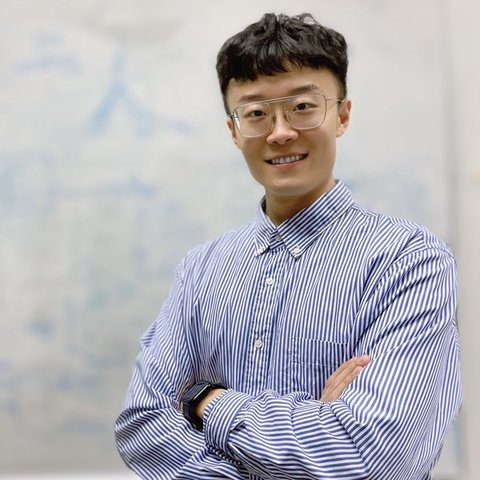
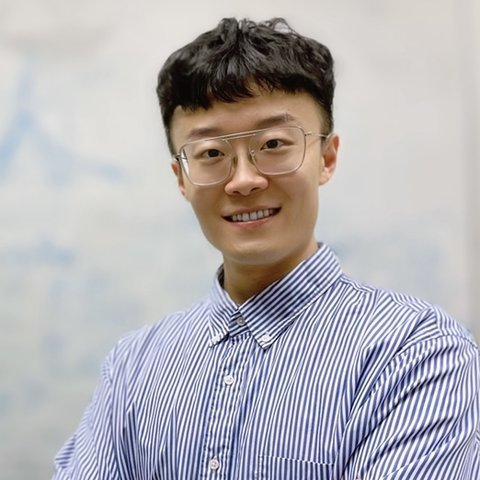
Color headshots with face-centered crops, spiral RSI diagram, hero CTAs, submit section, copy polish

diff --git a/index.html b/index.html
@@ -3,13 +3,13 @@
 <head>
 <meta charset="utf-8">
 <meta name="viewport" content="width=device-width, initial-scale=1">
-<title>ARRSI 2026 — Workshop on Autonomous Research and Recursive Self-Improvement</title>
+<title>ARRSI 2026 · Workshop on Autonomous Research and Recursive Self-Improvement</title>
 <meta name="description" content="The First Workshop on Autonomous Research and Recursive Self-Improvement (ARRSI), co-located with AACL-IJCNLP 2026 in Hengqin, China. Call for papers on autonomous research, AI for science, self-improving agents, evaluation, and safety.">
 <link rel="icon" type="image/svg+xml" href="assets/img/favicon.svg">
 <link rel="canonical" href="https://ar-rsi.github.io/">
 <meta property="og:type" content="website">
-<meta property="og:title" content="ARRSI 2026 — Workshop on Autonomous Research and Recursive Self-Improvement">
-<meta property="og:description" content="When can an agent be trusted as a research scientist? First ARRSI workshop at AACL-IJCNLP 2026, Hengqin, China — November 9 or 10, 2026.">
+<meta property="og:title" content="ARRSI 2026 · Workshop on Autonomous Research and Recursive Self-Improvement">
+<meta property="og:description" content="When can an agent be trusted as a research scientist? First ARRSI workshop at AACL-IJCNLP 2026, Hengqin, China, November 9 or 10, 2026.">
 <meta property="og:url" content="https://ar-rsi.github.io/">
 <meta property="og:image" content="https://ar-rsi.github.io/assets/img/og.png">
 <meta name="twitter:card" content="summary_large_image">
@@ -40,70 +40,58 @@
     <div>
       <p class="kicker">The First Workshop<span class="sep">·</span>AACL-IJCNLP 2026</p>
       <h1>Autonomous Research <span class="amp">&amp;</span> Recursive Self&#8209;Improvement</h1>
-      <p class="hero-venue">Co-located with <strong>AACL-IJCNLP 2026</strong> in Hengqin, China — <strong>November 9 or 10, 2026</strong> <em>(day to be fixed)</em>.</p>
+      <p class="hero-venue">Co-located with <strong>AACL-IJCNLP 2026</strong> in Hengqin, China, on <strong>November 9 or 10, 2026</strong> <em>(day to be fixed)</em>.</p>
+      <div class="cta-row">
+        <a class="btn btn-solid" href="#cfp">Call for Papers</a>
+        <a class="btn btn-line" href="#dates">Important dates</a>
+      </div>
       <div class="abstract">
         <h2>Abstract</h2>
-        <p>AI agents are crossing a consequential threshold: from assisting with isolated research steps to running closed loops of literature search, hypothesis generation, coding, experimentation, evaluation, and revision. Autonomous research and recursive self-improvement may together form a direct path toward artificial superintelligence — turning a distant thought experiment into an urgent empirical and governance problem.</p>
-        <p><strong>ARRSI asks when an agent can be trusted as a research scientist:</strong> can it generate genuinely novel hypotheses, test them against the world, learn from failure, and convert evidence from its own work into measurable improvements in subsequent research — by updating prompts, memory, tools, workflows, training procedures, or parameters — without sacrificing validity, reproducibility, safety, or human control?</p>
+        <p>AI agents are crossing a consequential threshold: from assisting with isolated research steps to running closed loops of literature search, hypothesis generation, coding, experimentation, evaluation, and revision. Autonomous research and recursive self-improvement may together form a direct path toward artificial superintelligence, turning a distant thought experiment into an urgent empirical and governance problem.</p>
+        <p><strong>ARRSI asks when an agent can be trusted as a research scientist:</strong> can it generate genuinely novel hypotheses, test them against the world, learn from failure, and convert evidence from its own work into measurable improvements in subsequent research, updating prompts, memory, tools, workflows, training procedures, or parameters without sacrificing validity, reproducibility, safety, or human control?</p>
       </div>
     </div>
     <div class="hero-rail">
       <figure class="figure">
-        <svg viewBox="0 0 400 330" role="img" aria-label="Diagram of the closed research loop: propose, implement, run, evaluate, revise — with evidence from evaluation updating the improver itself, which produces the next attempt.">
+        <svg viewBox="0 0 400 330" role="img" aria-label="A spiral unwinding outward through repeated research cycles. Each revolution passes propose, implement, run, evaluate, and revise. Accepted changes are committed to the system itself, so every new cycle starts from a stronger version, from v0 toward vn.">
           <defs>
-            <marker id="mInk" viewBox="0 0 10 10" refX="8" refY="5" markerWidth="6.5" markerHeight="6.5" orient="auto-start-reverse">
-              <path d="M 0 1 L 9 5 L 0 9 z" class="fig-ink-fill" stroke="none"/>
-            </marker>
             <marker id="mAcc" viewBox="0 0 10 10" refX="8" refY="5" markerWidth="7" markerHeight="7" orient="auto-start-reverse">
               <path d="M 0 1 L 9 5 L 0 9 z" class="fig-accent-fill" stroke="none"/>
             </marker>
           </defs>
-          <!-- loop arcs (clockwise), r=110 around (200,185), shifted up by 20 -->
-          <g fill="none" stroke-width="1.4" marker-end="url(#mInk)">
-            <path class="fig-ink loop-draw" pathLength="1" d="M 219.1 56.7 A 110 110 0 0 1 297.1 113.4"/>
-            <path class="fig-ink loop-draw" pathLength="1" d="M 308.9 149.7 A 110 110 0 0 1 279.1 241.4"/>
-            <path class="fig-ink loop-draw" pathLength="1" d="M 248.2 263.9 A 110 110 0 0 1 151.8 263.9"/>
-            <path class="fig-ink loop-draw" pathLength="1" d="M 120.9 241.4 A 110 110 0 0 1 91.1 149.7"/>
-            <path class="fig-ink loop-draw" pathLength="1" d="M 102.9 113.4 A 110 110 0 0 1 180.9 56.7"/>
+          <path class="fig-ink loop-draw" pathLength="1" fill="none" stroke-width="1.5" d="M 200.0 160.0 L 201.3 159.4 L 202.8 159.0 L 204.3 158.8 L 205.9 158.8 L 207.6 158.9 L 209.2 159.3 L 210.9 159.8 L 212.6 160.6 L 214.2 161.7 L 215.8 162.9 L 217.2 164.3 L 218.5 166.0 L 219.6 167.8 L 220.6 169.8 L 221.3 172.0 L 221.8 174.3 L 222.1 176.7 L 222.1 179.2 L 221.8 181.7 L 221.2 184.2 L 220.3 186.7 L 219.1 189.2 L 217.6 191.6 L 215.8 193.8 L 213.8 195.9 L 211.5 197.7 L 208.9 199.4 L 206.1 200.8 L 203.1 201.9 L 200.0 202.7 L 196.7 203.1 L 193.4 203.2 L 189.9 202.9 L 186.5 202.3 L 183.1 201.3 L 179.8 199.8 L 176.6 198.0 L 173.5 195.9 L 170.7 193.3 L 168.1 190.4 L 165.7 187.3 L 163.7 183.8 L 162.1 180.1 L 160.8 176.1 L 160.0 172.0 L 159.6 167.8 L 159.7 163.4 L 160.2 159.1 L 161.2 154.7 L 162.7 150.4 L 164.6 146.3 L 167.0 142.3 L 169.9 138.6 L 173.2 135.1 L 176.9 132.0 L 180.9 129.2 L 185.3 126.9 L 190.0 125.0 L 194.9 123.6 L 200.0 122.7 L 205.2 122.3 L 210.5 122.5 L 215.8 123.3 L 221.1 124.7 L 226.2 126.6 L 231.2 129.1 L 235.9 132.1 L 240.4 135.7 L 244.4 139.7 L 248.1 144.2 L 251.3 149.2 L 254.0 154.4 L 256.2 160.1 L 257.7 165.9 L 258.7 172.0 L 259.0 178.2 L 258.6 184.5 L 257.6 190.7 L 255.9 196.9 L 253.5 202.9 L 250.5 208.7 L 246.8 214.2 L 242.6 219.3 L 237.8 224.0 L 232.4 228.2 L 226.6 231.8 L 220.4 234.9 L 213.9 237.3 L 207.0 239.0 L 200.0 240.0 L 192.8 240.2 L 185.6 239.7 L 178.4 238.4 L 171.3 236.4 L 164.4 233.6 L 157.8 230.0 L 151.6 225.8 L 145.8 220.8 L 140.5 215.3 L 135.7 209.1 L 131.6 202.4 L 128.2 195.3 L 125.6 187.8 L 123.7 180.0 L 122.7 172.0 L 122.5 163.9 L 123.1 155.7 L 124.7 147.5 L 127.1 139.5 L 130.3 131.8 L 134.4 124.4 L 139.3 117.3 L 144.9 110.8 L 151.3 104.9 L 158.2 99.6 L 165.8 95.1 L 173.8 91.4 L 182.2 88.4 L 191.0 86.4 L 200.0 85.3 L 209.1 85.2 L 218.3 86.0 L 227.4 87.8 L 236.3 90.6 L 244.9 94.3 L 253.1 98.9 L 260.9 104.4 L 268.1 110.7 L 274.6 117.8 L 280.4 125.6 L 285.4 134.0 L 289.5 142.9 L 292.7 152.3 L 294.9 162.0 L 296.0 172.0 L 296.1 182.1 L 295.1 192.2 L 293.1 202.2 L 290.0 212.1 L 285.8 221.6 L 280.7 230.6 L 274.6 239.2 L 267.6 247.0 L 259.7 254.2 L 251.1 260.5 L 241.8 266.0 L 232.0 270.4 L 221.6 273.8 L 210.9 276.1 L 200.0 277.3 L 188.9 277.4 L 177.8 276.2 L 166.9 274.0 L 156.1 270.5 L 145.8 265.9 L 135.9 260.2 L 126.6 253.5 L 118.0 245.8 L 110.3 237.2 L 103.4 227.8 L 97.5 217.6 L 92.7 206.9 L 89.1 195.6 L 86.6 183.9 L 85.3 172.0 L 85.3 159.9 L 86.6 147.9 L 89.2 136.0"/>
+          <path class="fig-accent loop-draw d2" pathLength="1" fill="none" stroke-width="1.6" marker-end="url(#mAcc)" d="M 89.2 136.0 L 91.6 128.2 L 94.5 120.6 L 98.0 113.1 L 102.0 105.9 L 106.5 99.0 L 111.5 92.4 L 117.0 86.1 L 123.0 80.2 L 129.3 74.7 L 136.0 69.7 L 143.1 65.1 L 150.6 61.0 L 158.3 57.4 L 166.3 54.4 L 174.5 51.9 L 182.9 50.0 L 191.4 48.7 L 200.0 48.0"/>
+          <g class="loop-node n1">
+            <circle cx="200" cy="160" r="2.6" class="fig-ink-fill"/>
+            <text x="200" y="187" text-anchor="middle" class="fig-label-accent">v&#8320;</text>
           </g>
-          <!-- recursive update: evaluate -> improver -> next proposal -->
-          <g fill="none" stroke-width="1.4" stroke-dasharray="4 4">
-            <path class="fig-accent loop-draw d2" pathLength="1" d="M 140 250 Q 152 214 172 191" marker-end="url(#mAcc)"/>
-            <path class="fig-accent loop-draw d2" pathLength="1" d="M 200 141 L 200 72" marker-end="url(#mAcc)"/>
-          </g>
-          <!-- improver box -->
-          <g class="loop-node n6">
-            <rect x="143" y="143" width="114" height="42" class="fig-paper-fill fig-accent" stroke-width="1.2"/>
-            <text x="200" y="160.5" text-anchor="middle" class="fig-label-text">the improver</text>
-            <text x="200" y="176" text-anchor="middle" class="fig-label-text" style="font-size:8.5px" opacity="0.62">prompts · tools · weights</text>
-            <text x="126" y="226" text-anchor="end" class="fig-label-accent">evidence</text>
-            <text x="208" y="102" text-anchor="start" class="fig-label-accent">next attempt</text>
-          </g>
-          <!-- nodes -->
           <g stroke-width="1.4">
-            <g class="loop-node n1">
-              <circle cx="200" cy="55" r="4.5" class="fig-paper-fill fig-ink"/>
-              <text x="200" y="38" text-anchor="middle" class="fig-label-text">propose</text>
-            </g>
             <g class="loop-node n2">
-              <circle cx="304.6" cy="131" r="4.5" class="fig-paper-fill fig-ink"/>
-              <text x="318" y="135" text-anchor="start" class="fig-label-text">implement</text>
+              <circle cx="200" cy="85.3" r="4" class="fig-paper-fill fig-ink"/>
+              <text x="200" y="73" text-anchor="middle" class="fig-label-text">propose</text>
             </g>
             <g class="loop-node n3">
-              <circle cx="264.7" cy="254" r="4.5" class="fig-paper-fill fig-ink"/>
-              <text x="276" y="271" text-anchor="start" class="fig-label-text">run</text>
+              <circle cx="289.5" cy="142.9" r="4" class="fig-paper-fill fig-ink"/>
+              <text x="302" y="147" text-anchor="start" class="fig-label-text">implement</text>
             </g>
             <g class="loop-node n4">
-              <circle cx="135.3" cy="254" r="4.5" class="fig-paper-fill fig-ink"/>
-              <text x="124" y="271" text-anchor="end" class="fig-label-text">evaluate</text>
+              <circle cx="259.7" cy="254.2" r="4" class="fig-paper-fill fig-ink"/>
+              <text x="271" y="268" text-anchor="start" class="fig-label-text">run</text>
             </g>
             <g class="loop-node n5">
-              <circle cx="95.4" cy="131" r="4.5" class="fig-paper-fill fig-ink"/>
-              <text x="82" y="135" text-anchor="end" class="fig-label-text">revise</text>
+              <circle cx="135.9" cy="260.2" r="4" class="fig-paper-fill fig-ink"/>
+              <text x="126" y="275" text-anchor="end" class="fig-label-text">evaluate</text>
+            </g>
+            <g class="loop-node n6">
+              <circle cx="89.2" cy="136.0" r="4" class="fig-paper-fill fig-ink"/>
+              <text x="76" y="131" text-anchor="end" class="fig-label-text">revise</text>
             </g>
           </g>
+          <g class="loop-node n7">
+            <text x="214" y="52" text-anchor="start" class="fig-label-accent">v&#8345;</text>
+          </g>
         </svg>
-        <figcaption><span class="fig-label">Figure 1</span> — The closed research loop. A system <em>self-improves</em> when evidence from earlier runs changes the system itself; <em>recursive</em> self-improvement repeats this, with the improved system contributing to its next update.</figcaption>
+        <figcaption><span class="fig-label">The recursive loop</span> · Propose, implement, run, evaluate, revise. Accepted changes are committed to the system itself, so every new cycle starts from a stronger researcher: v&#8320;, then v&#8321;, then v&#8345;.</figcaption>
       </figure>
       <dl class="factlist">
         <div><dt>Venue</dt><dd>AACL-IJCNLP 2026</dd></div>
@@ -111,7 +99,6 @@
         <div><dt>Date</dt><dd>Nov 9 or 10, 2026</dd></div>
         <div><dt>Format</dt><dd>One day, in person</dd></div>
         <div><dt>Submissions</dt><dd>OpenReview · double-blind</dd></div>
-        <div><dt>Edition</dt><dd>First</dd></div>
       </dl>
     </div>
   </div>
@@ -127,12 +114,12 @@
     </div>
     <div class="split">
       <div class="prose">
-        <p class="lede">The question is no longer speculative. Research agents now synthesize literature, propose hypotheses that can be tested in laboratories, and run <em>closed research loops</em> — proposing an idea, implementing it, running an experiment, evaluating the result, and choosing the next attempt.</p>
-        <p>Self-improvement also reaches training: models generate practice data, rewards, curricula, and critiques through self-play, self-reward, and verifiable task generation, and agentic data systems improve the datasets they create. This broadens AI-for-AI to data curation, pretraining, midtraining, post-training, and systems optimization. Yet full recursive self-improvement remains unproven — evaluation must expose overfitting, hidden human labor, and reward tampering.</p>
+        <p class="lede">The question is no longer speculative. Research agents now synthesize literature, propose hypotheses that can be tested in laboratories, and run <em>closed research loops</em>: proposing an idea, implementing it, running an experiment, evaluating the result, and choosing the next attempt.</p>
+        <p>Self-improvement also reaches training: models generate practice data, rewards, curricula, and critiques through self-play, self-reward, and verifiable task generation, and agentic data systems improve the datasets they create. This broadens AI-for-AI to data curation, pretraining, midtraining, post-training, and systems optimization. Yet full recursive self-improvement remains unproven; evaluation must expose overfitting, hidden human labor, and reward tampering.</p>
         <p>ARRSI fits AACL-IJCNLP because language is how research agents form hypotheses, retrieve multilingual evidence, call tools, critique claims, and explain results. The workshop brings together NLP, agentic systems, AI for Science, AI for AI, evaluation, and governance to establish definitions, benchmarks, reporting standards, and safety boundaries for systems that do not merely produce research-like text, but accumulate auditable evidence and use it to become better researchers.</p>
       </div>
       <aside class="sidenote">
-        <p><strong>What ARRSI will produce:</strong> a shared vocabulary, a reporting checklist, a benchmark and infrastructure map, and a research agenda for the whole feedback loop — from a single experiment to the system that designs the next one.</p>
+        <p><strong>What ARRSI will produce:</strong> a shared vocabulary, a reporting checklist, a benchmark and infrastructure map, and a research agenda for the whole feedback loop, from a single experiment to the system that designs the next one.</p>
       </aside>
     </div>
   </div>
@@ -161,7 +148,7 @@
       <div class="topic"><h3><span class="t-no">T9</span>Safety &amp; Governance</h3><p>Validity, attribution, negative results, reward hacking, oversight, security, dual use, and human control.</p></div>
     </div>
 
-    <div class="split" style="margin-top: 2.4rem;">
+    <div class="split" id="dates" style="margin-top: 2.4rem;">
       <div>
         <table class="tabular">
           <caption>All deadlines are 23:59, anywhere on Earth. Dates will be announced together with the call for papers.</caption>
@@ -177,8 +164,8 @@
       </div>
       <aside>
         <div class="sidenote">
-          <p><strong>Format.</strong> Long papers up to 8 pages and short, position, or resource papers up to 4 pages, excluding references, in *ACL format. Each paper receives three double-blind reviews on <strong>OpenReview</strong>. All accepted papers present posters; 4–6 receive talk slots.</p>
-          <p style="margin-top:0.8rem"><strong>Reporting standards.</strong> Authors will report artifacts, compute, human intervention, failed runs, evaluation budgets, and the exact component improved — separating scientific progress from opaque optimization.</p>
+          <p><strong>Format.</strong> Long papers up to 8 pages and short, position, or resource papers up to 4 pages, excluding references, in *ACL format. Each paper receives three double-blind reviews on <strong>OpenReview</strong>. All accepted papers present posters, and 4 to 6 receive talk slots.</p>
+          <p style="margin-top:0.8rem"><strong>Reporting standards.</strong> Authors will report artifacts, compute, human intervention, failed runs, evaluation budgets, and the exact component improved, separating scientific progress from opaque optimization.</p>
         </div>
       </aside>
     </div>
@@ -202,13 +189,13 @@
             <tr><td class="mono">09:00</td><td>Opening and invited talks</td></tr>
             <tr><td class="mono">11:00</td><td>Contributed talks, posters, and demonstrations</td></tr>
             <tr><td class="mono">14:00</td><td>Further contributed and invited talks</td></tr>
-            <tr><td class="mono">16:00</td><td>Evaluation and reproducibility clinic</td></tr>
+            <tr class="hl"><td class="mono">16:00</td><td>Evaluation and reproducibility clinic</td></tr>
             <tr><td class="mono">17:00</td><td>Synthesis: vocabulary, checklist, and research agenda</td></tr>
           </tbody>
         </table>
       </div>
       <aside class="sidenote" id="clinic">
-        <p><strong>The clinic, not a shared task.</strong> The first edition will not run a shared task. Instead, an evaluation and reproducibility clinic for 20–30 participants will compare benchmark designs and draft a future task specification — once the community agrees on how to measure autonomy and self-improvement.</p>
+        <p><strong>The clinic, not a shared task.</strong> The first edition will not run a shared task. Instead, an evaluation and reproducibility clinic for 20 to 30 participants will compare benchmark designs and draft a future task specification once the community agrees on how to measure autonomy and self-improvement.</p>
       </aside>
     </div>
   </div>
@@ -253,7 +240,7 @@
       <a class="person" data-slug="ming-zhou" href="https://www.langboat.com/en/about/resume"><span class="photo"><img src="assets/people/ming-zhou.jpg" alt="Portrait of Ming Zhou" loading="lazy" width="480" height="480"></span><h3>Ming Zhou<span class="ext">↗</span></h3><p class="aff">Langboat</p></a>
       <a class="person" data-slug="hanqi-yan" href="https://hanqi-qi.github.io/"><span class="photo"><img src="assets/people/hanqi-yan.jpg" alt="Portrait of Hanqi Yan" loading="lazy" width="480" height="480"></span><h3>Hanqi Yan<span class="ext">↗</span></h3><p class="aff">King&rsquo;s College London</p></a>
     </div>
-    <p class="people-note">The team spans North America, Europe, the Middle East, and China. Conflicted organizers take no part in assignments, discussion, or decisions.</p>
+    <p class="people-note">The organizing team spans North America, Europe, Asia, and the Middle East. Conflicted organizers take no part in assignments, discussion, or decisions.</p>
   </div>
 </section>
 
@@ -286,6 +273,26 @@
   </div>
 </section>
 
+<!-- ======================= submit ======================= -->
+<section class="block" id="submit">
+  <div class="container">
+    <div class="block-head">
+      <span class="no">8</span>
+      <h2>Submit Your Work</h2>
+    </div>
+    <div class="split">
+      <div class="prose">
+        <p class="lede">Submission opens on OpenReview together with the call for papers.</p>
+        <p>Long papers run up to 8 pages and short, position, or resource papers up to 4 pages, excluding references, in *ACL format. Every accepted paper presents a poster, and 4 to 6 receive talk slots. Watch this page or the GitHub organization for the announcement.</p>
+      </div>
+      <div class="submit-actions">
+        <a class="btn btn-solid" href="https://github.com/ar-rsi" rel="noopener">Watch on GitHub</a>
+        <a class="btn btn-line" href="mailto:reacher@cs.ubc.ca">Email the organizers</a>
+      </div>
+    </div>
+  </div>
+</section>
+
 </main>
 
 <!-- ======================= footer ======================= -->
@@ -295,13 +302,15 @@
       <div>
         <h2>Contact</h2>
         <p>Yuxuan Zhang<br><a href="mailto:reacher@cs.ubc.ca">reacher@cs.ubc.ca</a></p>
+        <p style="margin-top:0.6rem">Yizhi Li<br><a href="mailto:yizhi.li@hotmail.com">yizhi.li@hotmail.com</a></p>
+        <p style="margin-top:0.6rem">Dingmin Wang<br><a href="mailto:wdimmy@amazon.com">wdimmy@amazon.com</a></p>
       </div>
       <div>
         <h2>Links</h2>
         <ul>
-          <li><a href="https://github.com/ar-rsi" rel="noopener">GitHub — github.com/ar-rsi</a></li>
-          <li>OpenReview — <em>opens with the CFP</em></li>
-          <li>AACL-IJCNLP 2026 — Hengqin, China</li>
+          <li><a href="https://github.com/ar-rsi" rel="noopener">github.com/ar-rsi</a></li>
+          <li>OpenReview <em>(opens with the CFP)</em></li>
+          <li>AACL-IJCNLP 2026, Hengqin, China</li>
         </ul>
       </div>
       <div>
@@ -310,8 +319,7 @@
       </div>
     </div>
     <div class="colophon">
-      <span>ARRSI 2026 · First edition</span>
-      <span>Hand-set in STIX Two Text &amp; IBM Plex Mono</span>
+      <span>ARRSI 2026 · AACL-IJCNLP 2026 · Hengqin, China</span>
     </div>
   </div>
 </footer>

diff --git a/assets/css/style.css b/assets/css/style.css
@@ -142,9 +142,22 @@ a:hover { text-decoration: underline; text-underline-offset: 3px; text-decoratio
   font-size: clamp(1.05rem, 1.6vw, 1.25rem);
   font-style: italic;
   color: var(--ink-soft);
-  margin-bottom: 2.2rem;
+  margin-bottom: 1.5rem;
 }
 .hero-venue strong { color: var(--ink); font-style: normal; font-weight: 600; }
+
+.cta-row { display: flex; gap: 0.8rem; flex-wrap: wrap; margin-bottom: 2.4rem; }
+.btn {
+  display: inline-block;
+  font-family: var(--mono); font-size: 0.73rem; font-weight: 500;
+  letter-spacing: 0.11em; text-transform: uppercase;
+  padding: 0.72rem 1.35rem; border: 1px solid var(--ink);
+}
+.btn:hover { text-decoration: none; }
+.btn-solid { background: var(--ink); color: var(--paper); }
+.btn-solid:hover { background: var(--accent); border-color: var(--accent); color: #fff; }
+.btn-line { color: var(--ink); }
+.btn-line:hover { border-color: var(--accent); color: var(--accent); }
 
 .abstract { border-top: 2px solid var(--ink); padding-top: 1.1rem; max-width: var(--measure); }
 .abstract h2 {
@@ -177,12 +190,13 @@ a:hover { text-decoration: underline; text-underline-offset: 3px; text-decoratio
 
 /* figure drawing animation */
 @media (prefers-reduced-motion: no-preference) {
-  .loop-draw { stroke-dasharray: 1; stroke-dashoffset: 1; animation: draw 1.6s cubic-bezier(0.4, 0, 0.2, 1) forwards; }
-  .loop-draw.d2 { animation-delay: 0.5s; animation-duration: 1.4s; }
+  .loop-draw { stroke-dasharray: 1; stroke-dashoffset: 1; animation: draw 2s cubic-bezier(0.45, 0, 0.3, 1) forwards; }
+  .loop-draw.d2 { animation-delay: 1.9s; animation-duration: 0.55s; animation-timing-function: cubic-bezier(0.2, 0.6, 0.4, 1); }
   .loop-node { opacity: 0; animation: appear 0.5s ease forwards; }
-  .loop-node.n1 { animation-delay: 0.15s; } .loop-node.n2 { animation-delay: 0.45s; }
-  .loop-node.n3 { animation-delay: 0.75s; } .loop-node.n4 { animation-delay: 1.05s; }
-  .loop-node.n5 { animation-delay: 1.35s; } .loop-node.n6 { animation-delay: 1.9s; }
+  .loop-node.n1 { animation-delay: 0.2s; } .loop-node.n2 { animation-delay: 1.3s; }
+  .loop-node.n3 { animation-delay: 1.45s; } .loop-node.n4 { animation-delay: 1.6s; }
+  .loop-node.n5 { animation-delay: 1.75s; } .loop-node.n6 { animation-delay: 1.9s; }
+  .loop-node.n7 { animation-delay: 2.35s; }
   .hero-grid > * { opacity: 0; transform: translateY(10px); animation: rise 0.7s cubic-bezier(0.2, 0.7, 0.3, 1) forwards; }
   .hero-grid > *:nth-child(2) { animation-delay: 0.15s; }
 }
@@ -270,10 +284,9 @@ section.block:last-of-type { padding-bottom: clamp(2.6rem, 5.5vw, 4rem); }
 }
 .person img {
   width: 100%; height: 100%; object-fit: cover;
-  filter: grayscale(1) contrast(1.03);
-  transition: filter 0.35s ease, transform 0.35s ease;
+  transition: transform 0.35s ease;
 }
-.person:hover img { filter: grayscale(0); transform: scale(1.025); }
+.person:hover img { transform: scale(1.025); }
 .person h3 { font-size: 1rem; font-weight: 600; line-height: 1.3; }
 .person:hover h3 { color: var(--accent); }
 .person h3 .ext { font-family: var(--mono); font-size: 0.7rem; color: var(--accent); opacity: 0; transition: opacity 0.2s ease; margin-left: 0.3em; }
@@ -282,6 +295,10 @@ section.block:last-of-type { padding-bottom: clamp(2.6rem, 5.5vw, 4rem); }
 span.person { cursor: default; }
 
 .people-note { margin-top: 1.4rem; font-size: 0.88rem; color: var(--ink-faint); font-style: italic; max-width: var(--measure); }
+
+/* ---------- submit ---------- */
+.submit-actions { display: flex; flex-direction: column; gap: 0.8rem; align-items: stretch; max-width: 260px; }
+.submit-actions .btn { text-align: center; }
 
 /* ---------- footer ---------- */
 footer { margin-top: clamp(3rem, 6vw, 5rem); border-top: 2px solid var(--ink); background: var(--paper-soft); }
